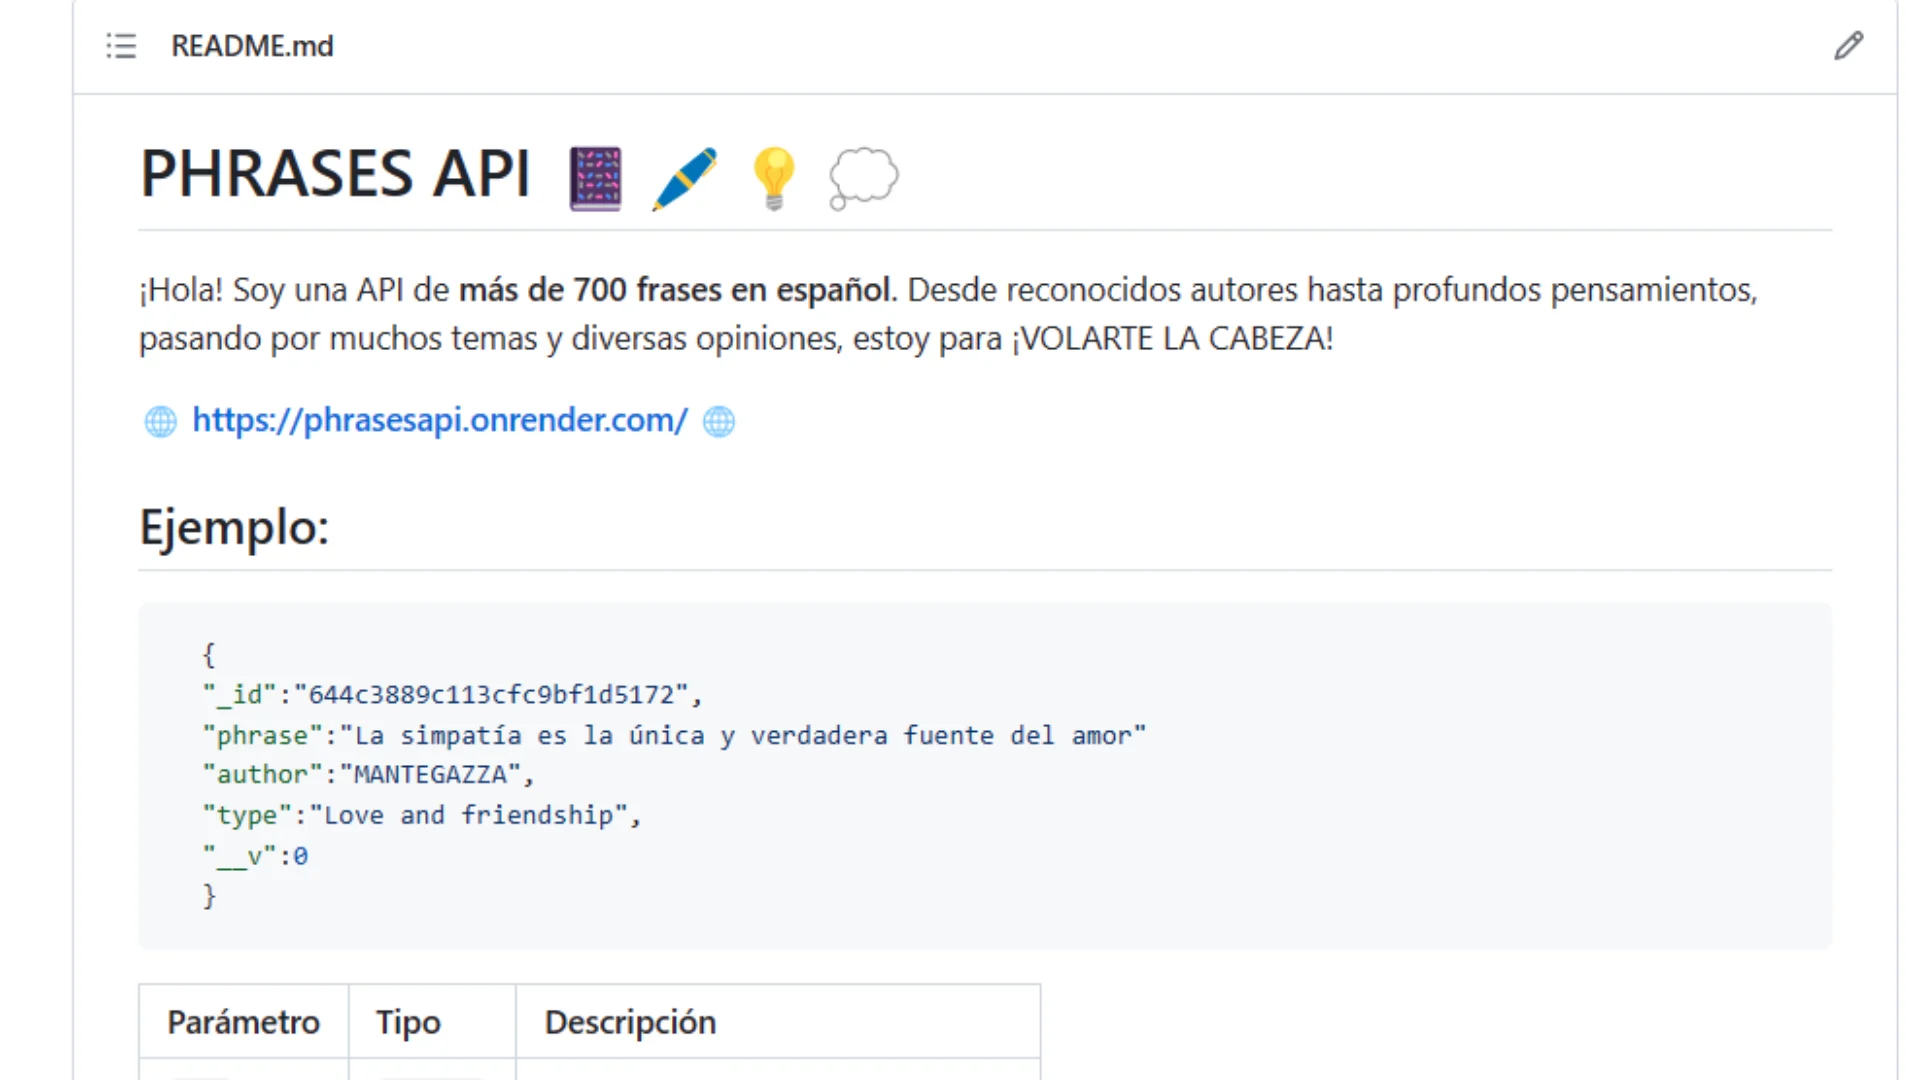
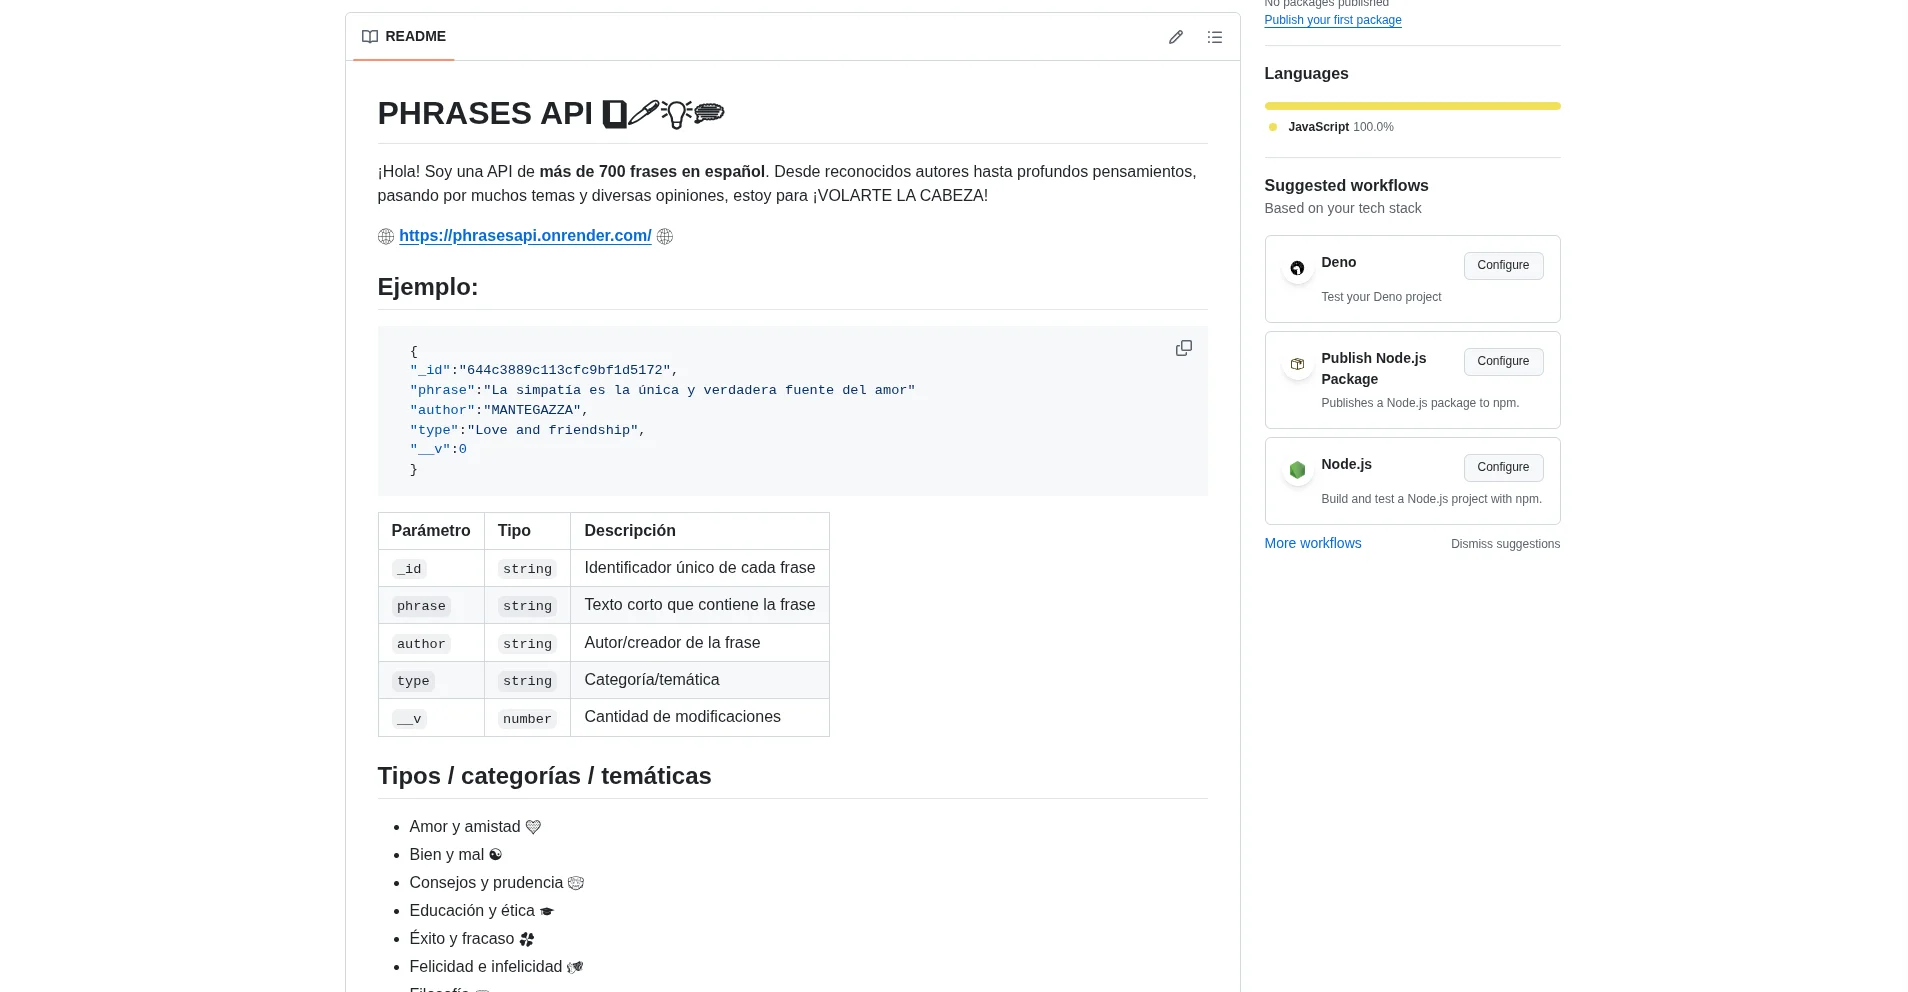
cambio title meta

diff --git a/index.html b/index.html
@@ -4,7 +4,7 @@
     <meta charset="UTF-8" />
     <link rel="icon" type="image/png" href="/images/favicon.png" />
     <meta name="viewport" content="width=device-width, initial-scale=1.0" />
-    <title>Cecilia - Portafolio</title>
+    <title>Mi Portfolio - Ceci</title>
     <!-- Google Fonts -->
     <link rel="preconnect" href="https://fonts.googleapis.com">
     <link rel="preconnect" href="https://fonts.gstatic.com" crossorigin>

diff --git a/src/App.jsx b/src/App.jsx
@@ -30,8 +30,8 @@ function App() {
           <About />
           <Certifications />
           <Skills />
-          <Companies />
-          <Projects />
+          {/* <Companies /> */}
+          {/* <Projects /> */}
           <Contact />
         </main>
         <Footer />
